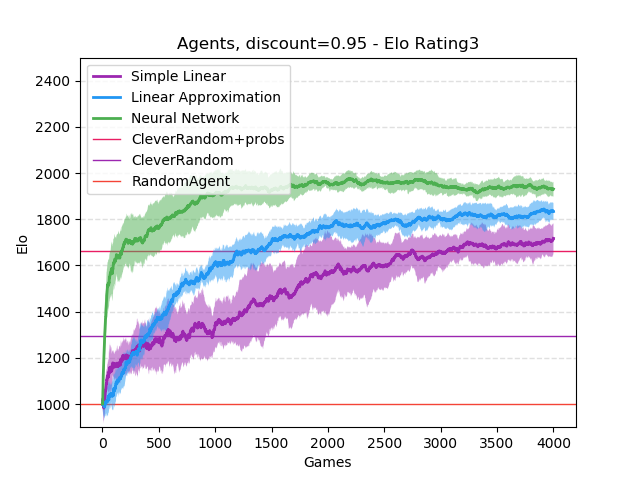
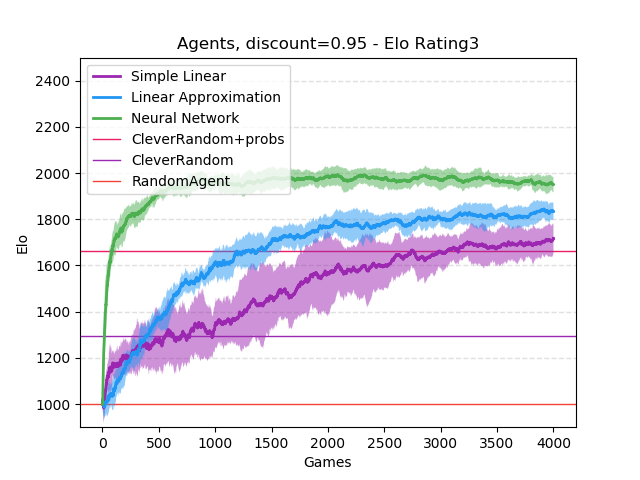
ExperimentsNNSelfPlay

Changed region(s): [[0.1562, 0.3438, 0.875, 0.6875]]

diff --git a/generateExperiments.py b/generateExperiments.py
@@ -16,29 +16,29 @@ def genExperiments(name, agent, gameLength, adAgent, explore, doTrain, impala, c
         file.write(f'bsub -o "outputs/{name}/{agent}{str(i)}{name}.md" -J "{agent}{str(i)}{name}" -P "{agent}{str(i)}{name} {gameLength} {adAgent} {agent} {int(explore)} {int(doTrain)} {int(impala)} {int(calcprobs)} {int(minmax)} {name}{" -lossf " + str(lossf) if lossf is not None else ""}{" -K " + str(K) if K is not None else ""}{" -dropout " + str(dropout) if dropout is not None else ""}{" -alpha " + str(alpha) if alpha is not None else ""}{" -discount " + str(discount) if discount is not None else ""}{" -lambda " + str(lambd) if lambd is not None else ""}{" -lr " + str(lr) if lr is not None else ""}{" -chooserfunction " + str(chooserfunction) if chooserfunction is not None else ""}{" -TopNvalues " + str(TopNvalues) if TopNvalues is not None else ""}{" -cutOffdepth " + str(cutOffdepth) if cutOffdepth is not None else ""}{" -ValueCutOff " + str(ValueCutOff) if ValueCutOff is not None else ""}{" -ValueDiffCutOff " + str(ValueDiffCutOff) if ValueDiffCutOff is not None else ""}{" -ProbabilityCutOff " + str(ProbabilityCutOff) if ProbabilityCutOff is not None else ""}{" -historyLength " + str(historyLength) if historyLength is not None else ""}{" -startAfterNgames " + str(startAfterNgames) if startAfterNgames is not None else ""}{" -batchSize " + str(batchSize) if batchSize is not None else ""}{" -sampleLenth " + str(sampleLenth) if sampleLenth is not None else ""}{" -network " + str(network) if network is not None else ""}{" -winNumber " + str(winNumber) if winNumber is not None else ""}{" -maxRolls " + str(maxRolls) if maxRolls is not None else ""}{" -Eatreward " + str(Eatreward) if Eatreward is not None else ""}{" -basereward " + str(basereward) if basereward is not None else ""}{" -stepreward " + str(stepreward) if stepreward is not None else ""}" < submit.sh\n')
 
 
-# genExperiments('NN-Selfplay-20-random', 'NNAgent', 4000, 20, False, True, False, False, False, lossf='MSE', discount=0.95, lambd=0, lr=0.0002, chooserfunction='randomChooser')
-# genExperiments('NN-Selfplay-50-random', 'NNAgent', 4000, 50, False, True, False, False, False, lossf='MSE', discount=0.95, lambd=0, lr=0.0002, chooserfunction='randomChooser')
-# genExperiments('NN-Selfplay-100-random', 'NNAgent', 4000, 100, False, True, False, False, False, lossf='MSE', discount=0.95, lambd=0, lr=0.0002, chooserfunction='randomChooser')
+genExperiments('NN-Selfplay-20-random-lr=0.00005', 'NNAgent', 4000, 20, False, True, False, False, False, lossf='MSE', discount=0.95, lambd=0, lr=0.00005, chooserfunction='randomChooser')
+genExperiments('NN-Selfplay-50-random-lr=0.00005', 'NNAgent', 4000, 50, False, True, False, False, False, lossf='MSE', discount=0.95, lambd=0, lr=0.00005, chooserfunction='randomChooser')
+genExperiments('NN-Selfplay-100-random-lr=0.00005', 'NNAgent', 4000, 100, False, True, False, False, False, lossf='MSE', discount=0.95, lambd=0, lr=0.00005, chooserfunction='randomChooser')
 
-# genExperiments('NN-Selfplay-20-incremental', 'NNAgent', 4000, 20, False, True, False, False, False, lossf='MSE', discount=0.95, lambd=0, lr=0.0002, chooserfunction='incrementalChooser')
-# genExperiments('NN-Selfplay-50-incremental', 'NNAgent', 4000, 50, False, True, False, False, False, lossf='MSE', discount=0.95, lambd=0, lr=0.0002, chooserfunction='incrementalChooser')
-# genExperiments('NN-Selfplay-100-incremental', 'NNAgent', 4000, 100, False, True, False, False, False, lossf='MSE', discount=0.95, lambd=0, lr=0.0002, chooserfunction='incrementalChooser')
+genExperiments('NN-Selfplay-20-incremental-lr=0.00005', 'NNAgent', 4000, 20, False, True, False, False, False, lossf='MSE', discount=0.95, lambd=0, lr=0.00005, chooserfunction='incrementalChooser')
+genExperiments('NN-Selfplay-50-incremental-lr=0.00005', 'NNAgent', 4000, 50, False, True, False, False, False, lossf='MSE', discount=0.95, lambd=0, lr=0.00005, chooserfunction='incrementalChooser')
+genExperiments('NN-Selfplay-100-incremental-lr=0.00005', 'NNAgent', 4000, 100, False, True, False, False, False, lossf='MSE', discount=0.95, lambd=0, lr=0.00005, chooserfunction='incrementalChooser')
 
-# genExperiments('NN-Selfplay-20-weighted', 'NNAgent', 4000, 20, False, True, False, False, False, lossf='MSE', discount=0.95, lambd=0, lr=0.0002, chooserfunction='weightedChooser')
-# genExperiments('NN-Selfplay-50-weighted', 'NNAgent', 4000, 50, False, True, False, False, False, lossf='MSE', discount=0.95, lambd=0, lr=0.0002, chooserfunction='weightedChooser')
-# genExperiments('NN-Selfplay-100-weighted', 'NNAgent', 4000, 100, False, True, False, False, False, lossf='MSE', discount=0.95, lambd=0, lr=0.0002, chooserfunction='weightedChooser')
+genExperiments('NN-Selfplay-20-weighted-lr=0.00005', 'NNAgent', 4000, 20, False, True, False, False, False, lossf='MSE', discount=0.95, lambd=0, lr=0.00005, chooserfunction='weightedChooser')
+genExperiments('NN-Selfplay-50-weighted-lr=0.00005', 'NNAgent', 4000, 50, False, True, False, False, False, lossf='MSE', discount=0.95, lambd=0, lr=0.00005, chooserfunction='weightedChooser')
+genExperiments('NN-Selfplay-100-weighted-lr=0.00005', 'NNAgent', 4000, 100, False, True, False, False, False, lossf='MSE', discount=0.95, lambd=0, lr=0.00005, chooserfunction='weightedChooser')
 
-genExperiments('LA-discount-0.5-NoTrain-alpha-0.000001', 'LinearAprox', 4000, 5000, False, True, False, False, False, alpha=0.000001, discount=0.5, lambd=0)
-genExperiments('LA-discount-0.75-NoTrain-alpha-0.000001', 'LinearAprox', 4000, 5000, False, True, False, False, False, alpha=0.000001, discount=0.75, lambd=0)
-genExperiments('LA-discount-0.95-NoTrain-alpha-0.000001', 'LinearAprox', 4000, 5000, False, True, False, False, False, alpha=0.000001, discount=0.95, lambd=0)
+# genExperiments('LA-discount-0.5-NoTrain-alpha-0.000001', 'LinearAprox', 4000, 5000, False, True, False, False, False, alpha=0.000001, discount=0.5, lambd=0)
+# genExperiments('LA-discount-0.75-NoTrain-alpha-0.000001', 'LinearAprox', 4000, 5000, False, True, False, False, False, alpha=0.000001, discount=0.75, lambd=0)
+# genExperiments('LA-discount-0.95-NoTrain-alpha-0.000001', 'LinearAprox', 4000, 5000, False, True, False, False, False, alpha=0.000001, discount=0.95, lambd=0)
 
-genExperiments('SL-discount-0.5-NoTrain-alpha-0.000003', 'SimpleLinear', 4000, 5000, False, True, False, False, False, alpha=0.000003, discount=0.5, lambd=0)
-genExperiments('SL-discount-0.75-NoTrain-alpha-0.000003', 'SimpleLinear', 4000, 5000, False, True, False, False, False, alpha=0.000003, discount=0.75, lambd=0)
-genExperiments('SL-discount-0.95-NoTrain-alpha-0.000003', 'SimpleLinear', 4000, 5000, False, True, False, False, False, alpha=0.000003, discount=0.95, lambd=0)
+# genExperiments('SL-discount-0.5-NoTrain-alpha-0.000003', 'SimpleLinear', 4000, 5000, False, True, False, False, False, alpha=0.000003, discount=0.5, lambd=0)
+# genExperiments('SL-discount-0.75-NoTrain-alpha-0.000003', 'SimpleLinear', 4000, 5000, False, True, False, False, False, alpha=0.000003, discount=0.75, lambd=0)
+# genExperiments('SL-discount-0.95-NoTrain-alpha-0.000003', 'SimpleLinear', 4000, 5000, False, True, False, False, False, alpha=0.000003, discount=0.95, lambd=0)
 
-genExperiments('NN-discount-0.5-NoTrain-lr-0.00005', 'NNAgent', 4000, 5000, False, True, False, False, False, lr=0.00005, discount=0.5, lambd=0, lossf='MSE')
-genExperiments('NN-discount-0.75-NoTrain-lr-0.00005', 'NNAgent', 4000, 5000, False, True, False, False, False, lr=0.00005, discount=0.75, lambd=0, lossf='MSE')
-genExperiments('NN-discount-0.95-NoTrain-lr-0.00005', 'NNAgent', 4000, 5000, False, True, False, False, False, lr=0.00005, discount=0.95, lambd=0, lossf='MSE')
+# genExperiments('NN-discount-0.5-NoTrain-lr-0.00005', 'NNAgent', 4000, 5000, False, True, False, False, False, lr=0.00005, discount=0.5, lambd=0, lossf='MSE')
+# genExperiments('NN-discount-0.75-NoTrain-lr-0.00005', 'NNAgent', 4000, 5000, False, True, False, False, False, lr=0.00005, discount=0.75, lambd=0, lossf='MSE')
+# genExperiments('NN-discount-0.95-NoTrain-lr-0.00005', 'NNAgent', 4000, 5000, False, True, False, False, False, lr=0.00005, discount=0.95, lambd=0, lossf='MSE')
 
 # genExperiments('NN-discount-0.5-NoTrain-lr-0.00001', 'NNAgent', 4000, 5000, False, True, False, False, False, lr=0.00001, discount=0.5, lambd=0, lossf='MSE')
 # genExperiments('NN-discount-0.75-NoTrain-lr-0.00001', 'NNAgent', 4000, 5000, False, True, False, False, False, lr=0.00001, discount=0.75, lambd=0, lossf='MSE')

diff --git a/plotgenerators/agentsplot.py b/plotgenerators/agentsplot.py
@@ -3,7 +3,7 @@ import numpy as np
 
 for discount in [0.5, 0.75, 0.95]:
 
-    l = [(f'SL-discount-{discount}-NoTrain-alpha-0.000003', 'Simple Linear', '#9C27B0'), (f'LA-discount-{discount}-NoTrain-alpha-0.000001', 'Linear Approximation', '#2196F3'), (f'NN-discount-{discount}-NoTrain-lr-0.00005', 'Neural Network', '#4CAF50')]
+    l = [(f'SL-discount-{discount}-NoTrain-alpha-0.000003', 'Simple Linear', '#9C27B0'), (f'LA-discount-{discount}-NoTrain-alpha-0.000001', 'Linear Approximation', '#2196F3'), (f'NN-discount-{discount}-NoTrain-lr-0.0002', 'Neural Network', '#4CAF50')]
 
     with EloPlot(title=f'Agents, discount={discount} - Elo Rating3', saves=[f'GoodPlots/Agents-{discount}.png']) as plt:
         for EloOverTime, name, agent, color in Data([f".\\outputs\\{a[0]}\\csv" for a in l], colors=[a[2] for a in l], elo=False):
